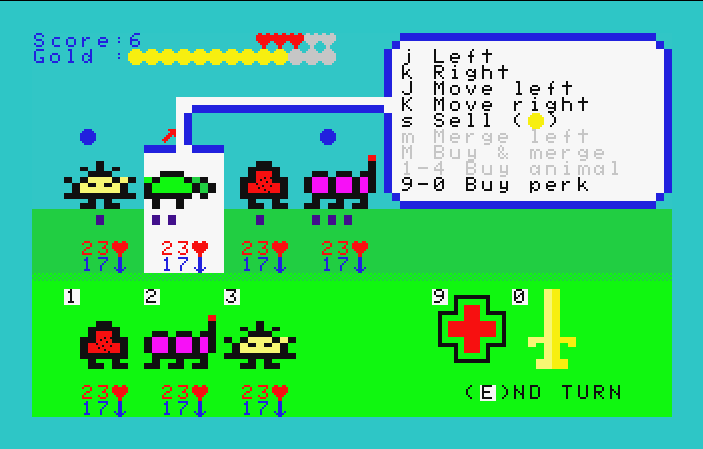
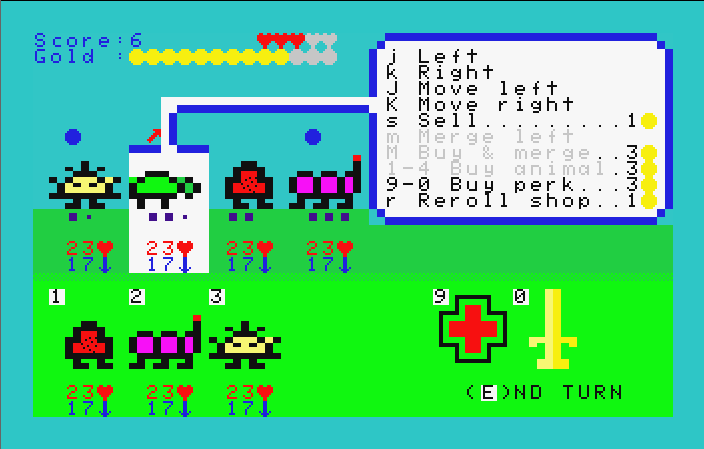
Added splash. Updated shop

diff --git a/doc/DESIGN.md b/doc/DESIGN.md
@@ -67,22 +67,24 @@ The UI of the shop is composed of:
 ### Shop actions
 
 The actions possible in the shop are:
-    
-    * Sell one animal
+
+    * Sell animals or empty spots
 
     * Re-order animals
 
-    * Buy a perk for an animal
+    * Sell one animal
+
+    * Merge animals
 
     * Buy an animal into an empty space
+
+    * Buy a perk for an animal
 
     * Reroll the shop
     
     * End turn
     
-    * Abort game
-
-    * (help, maybe?)
+    * (abord, help, maybe?)
   
 ## Battle
 
@@ -94,3 +96,8 @@ The UI of the battle is composed of two opposite team views, and a score board.
 
 
 [to be completed]
+
+
+![image](splash.png)
+
+
